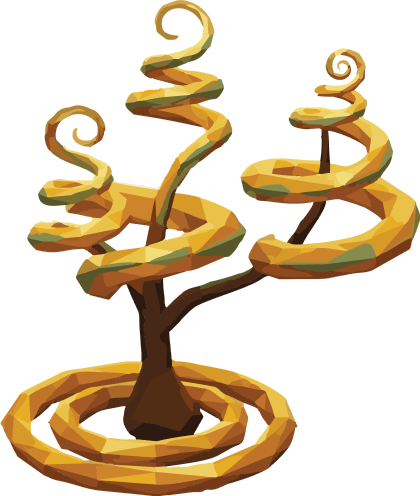
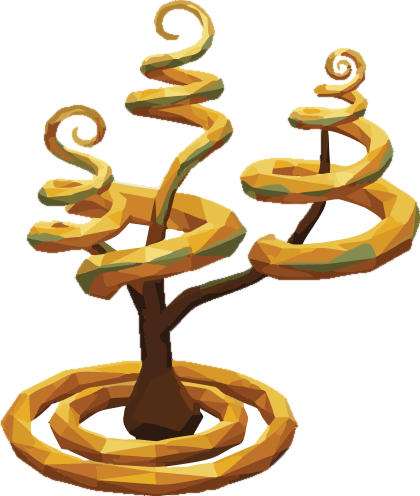
Fix the white haloes, the keyboard overlap, and the garden assembling itself
Three faults from the phone screenshots.

The stage artwork carried a white rim. Cutting it off its white plate
kept the plate's colour in the anti-aliased edge while giving it partial
alpha, so on cream or blue every tree wore a light halo — about half the
soft-edge pixels were near-white. The rim now takes the colour of the
nearest solid pixel, so the edge carries the art instead of the
background it came from. Alpha is untouched, so the edge is still soft.
Near-white rim is 55% before, under 1% after, and the recovered colours
are the right ones: amber on the spiral, teal on the crystal.

The naming screen's button sat on top of the field. Its actions were
absolutely pinned to the bottom while the input scrolled above them, so
raising the keyboard slid "plant it" over the box being typed into and
pushed "i will name it later" inside it. The actions now live in the
scroll, with the same keyboard props the worry screen already uses.

The garden assembled itself in front of the user. Nothing was preloaded,
so a returning user saw the screen first and the landscape and the plant
arrive a beat later — sometimes a watering can alone on an empty field.
The landscape, the current stage and the next one are now warmed before
the garden is shown; failing to load them does not block launch.

Also: the tab and profile scrolls kept a bottom padding tuned for a 96pt
nav, but the nav grew by the home indicator in the previous commit, so
the last card sat behind it.

diff --git a/src/KizukuApp.tsx b/src/KizukuApp.tsx
@@ -16,6 +16,7 @@ import {
   useWindowDimensions,
   View
 } from "react-native";
+import { Asset } from "expo-asset";
 import { LinearGradient } from "expo-linear-gradient";
 import {
   actionTemplates,
@@ -192,7 +193,7 @@ export function KizukuApp() {
    */
   useEffect(() => {
     let cancelled = false;
-    loadState().then((saved) => {
+    loadState().then(async (saved) => {
       if (cancelled) return;
       if (saved && !devJump) {
         setPersonality(saved.personality);
@@ -203,6 +204,26 @@ export function KizukuApp() {
         setPlantName(saved.plantName ?? "");
         if (saved.onboarded) setScreen("home");
       }
+
+      /*
+       * Warm the garden's images before showing it. Without this the screen
+       * appeared first and the landscape and the plant faded in behind it a
+       * beat later, so the first thing a returning user saw was their garden
+       * assembling itself — sometimes just a watering can on an empty field.
+       *
+       * Only what the first screen needs: the landscape, the stage they are on,
+       * and the next one, because growth cuts to it. A failure here is not
+       * worth blocking launch over — the images still load, just later.
+       */
+      const type = saved?.personality ?? "optimizer";
+      const stage = stageFor(saved?.actionsDone ?? 0);
+      await Asset.loadAsync([
+        assets.background,
+        plants[type][stage - 1]!,
+        plants[type][Math.min(stage, 5)]!
+      ]).catch(() => {});
+      if (cancelled) return;
+
       setHydrated(true);
     });
     return () => {
@@ -1248,7 +1269,11 @@ function PatternsScreen({
   return (
     <View style={[styles.flex, styles.paperScreen]}>
       <ScrollView
-        contentContainerStyle={[styles.tabScroll, { paddingTop: insets.top + space.xl }]}
+        contentContainerStyle={[
+          styles.tabScroll,
+          // the nav grew by the home indicator, so the scroll has to clear it too
+          { paddingTop: insets.top + space.xl, paddingBottom: 108 + insets.bottom }
+        ]}
         showsVerticalScrollIndicator={false}
       >
         <Eyebrow>your pattern</Eyebrow>
@@ -1346,7 +1371,11 @@ function ProfileScreen({
   return (
     <View style={[styles.flex, styles.paperScreen]}>
       <ScrollView
-        contentContainerStyle={[styles.profileScroll, { paddingTop: insets.top + space.xl }]}
+        contentContainerStyle={[
+          styles.profileScroll,
+          // the nav grew by the home indicator, so the scroll has to clear it too
+          { paddingTop: insets.top + space.xl, paddingBottom: 108 + insets.bottom }
+        ]}
         showsVerticalScrollIndicator={false}
       >
         <View style={styles.profileMark}>
@@ -1873,8 +1902,18 @@ function NamingScreen({
 
   return (
     <View style={[styles.flex, { backgroundColor: theme.surface }]}>
+      {/*
+        The actions live inside the scroll. They used to be absolutely pinned to
+        the bottom while the input sat in the scroll above, so raising the
+        keyboard slid the button up over the field the user was typing into.
+        automaticallyAdjustKeyboardInsets lets iOS inset by the real keyboard
+        height, and persistTaps lets the button take the first tap rather than
+        spending it dismissing the keyboard.
+      */}
       <ScrollView
+        automaticallyAdjustKeyboardInsets
         contentContainerStyle={[styles.namingContent, { paddingTop: insets.top + space.xl }]}
+        keyboardShouldPersistTaps="handled"
         showsVerticalScrollIndicator={false}
       >
         {/*
@@ -1913,17 +1952,17 @@ function NamingScreen({
             value={name}
           />
         </View>
-      </ScrollView>
 
-      <View style={styles.bottomAction}>
-        <PrimaryButton
-          label={name.trim() ? `plant ${name.trim()}` : "plant it"}
-          onPress={() => onDone(name.trim())}
-        />
-        <Pressable onPress={() => onDone("")} style={styles.namingSkip}>
-          <Text style={[styles.namingSkipText, { color: theme.ink }]}>i will name it later</Text>
-        </Pressable>
-      </View>
+        <View style={styles.namingActions}>
+          <PrimaryButton
+            label={name.trim() ? `plant ${name.trim()}` : "plant it"}
+            onPress={() => onDone(name.trim())}
+          />
+          <Pressable onPress={() => onDone("")} style={styles.namingSkip}>
+            <Text style={[styles.namingSkipText, { color: theme.ink }]}>i will name it later</Text>
+          </Pressable>
+        </View>
+      </ScrollView>
     </View>
   );
 }
@@ -2182,7 +2221,8 @@ const styles = StyleSheet.create({
 
   // type reveal
   revealContent: { paddingHorizontal: space.lg, paddingTop: space.xxl, paddingBottom: 108 },
-  namingContent: { paddingHorizontal: space.gutter, paddingTop: space.xxxl, paddingBottom: 140, alignItems: "flex-start" },
+  namingContent: { paddingHorizontal: space.gutter, paddingTop: space.xxxl, paddingBottom: space.xl, alignItems: "flex-start" },
+  namingActions: { alignSelf: "stretch", marginTop: space.xxl },
   namingSeedWrap: { alignSelf: "center", marginBottom: space.lg },
   namingSeed: { width: 116, height: 132 },
   namingTitle: { ...text.displayLg, marginTop: space.xxs },
